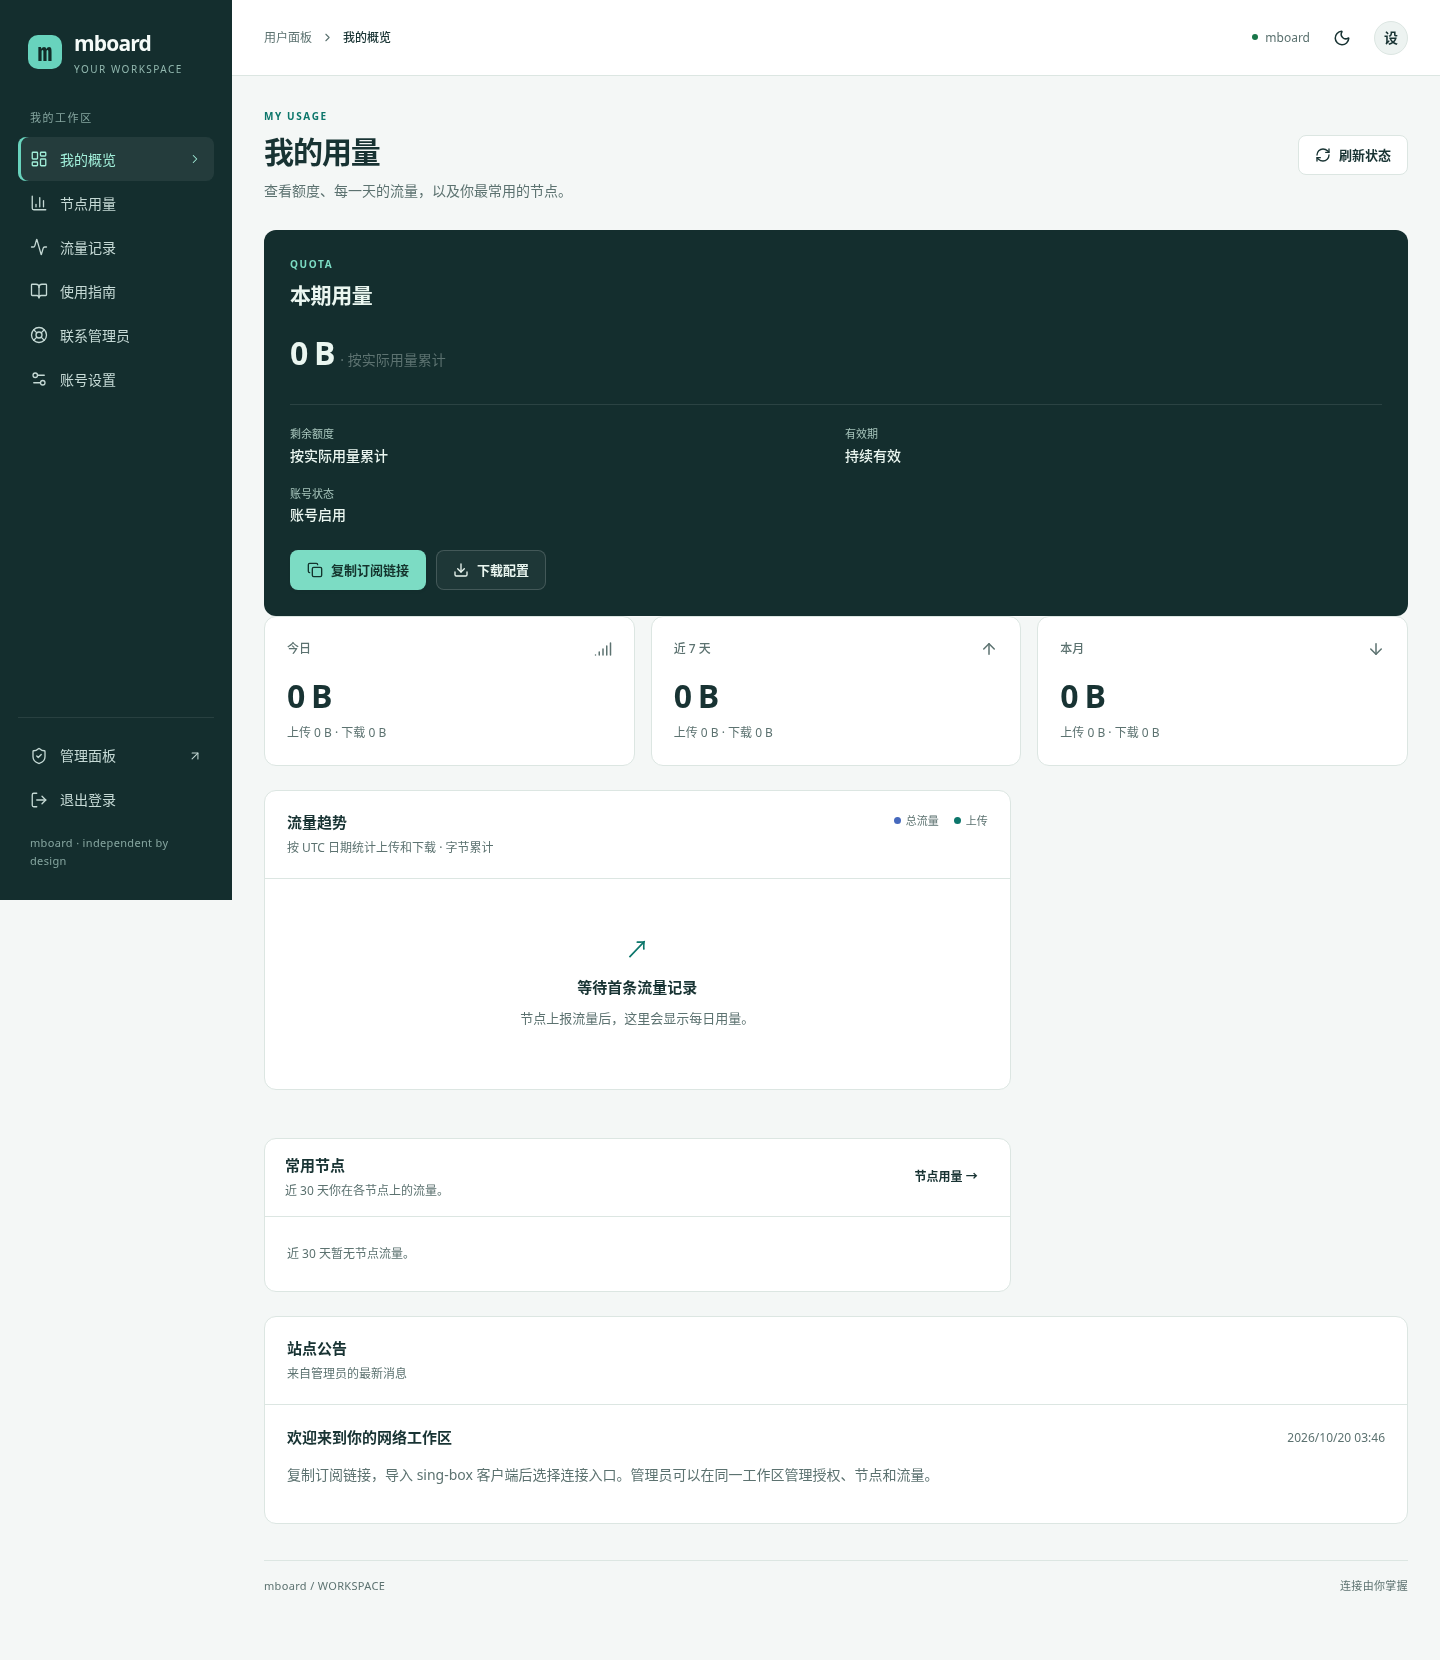
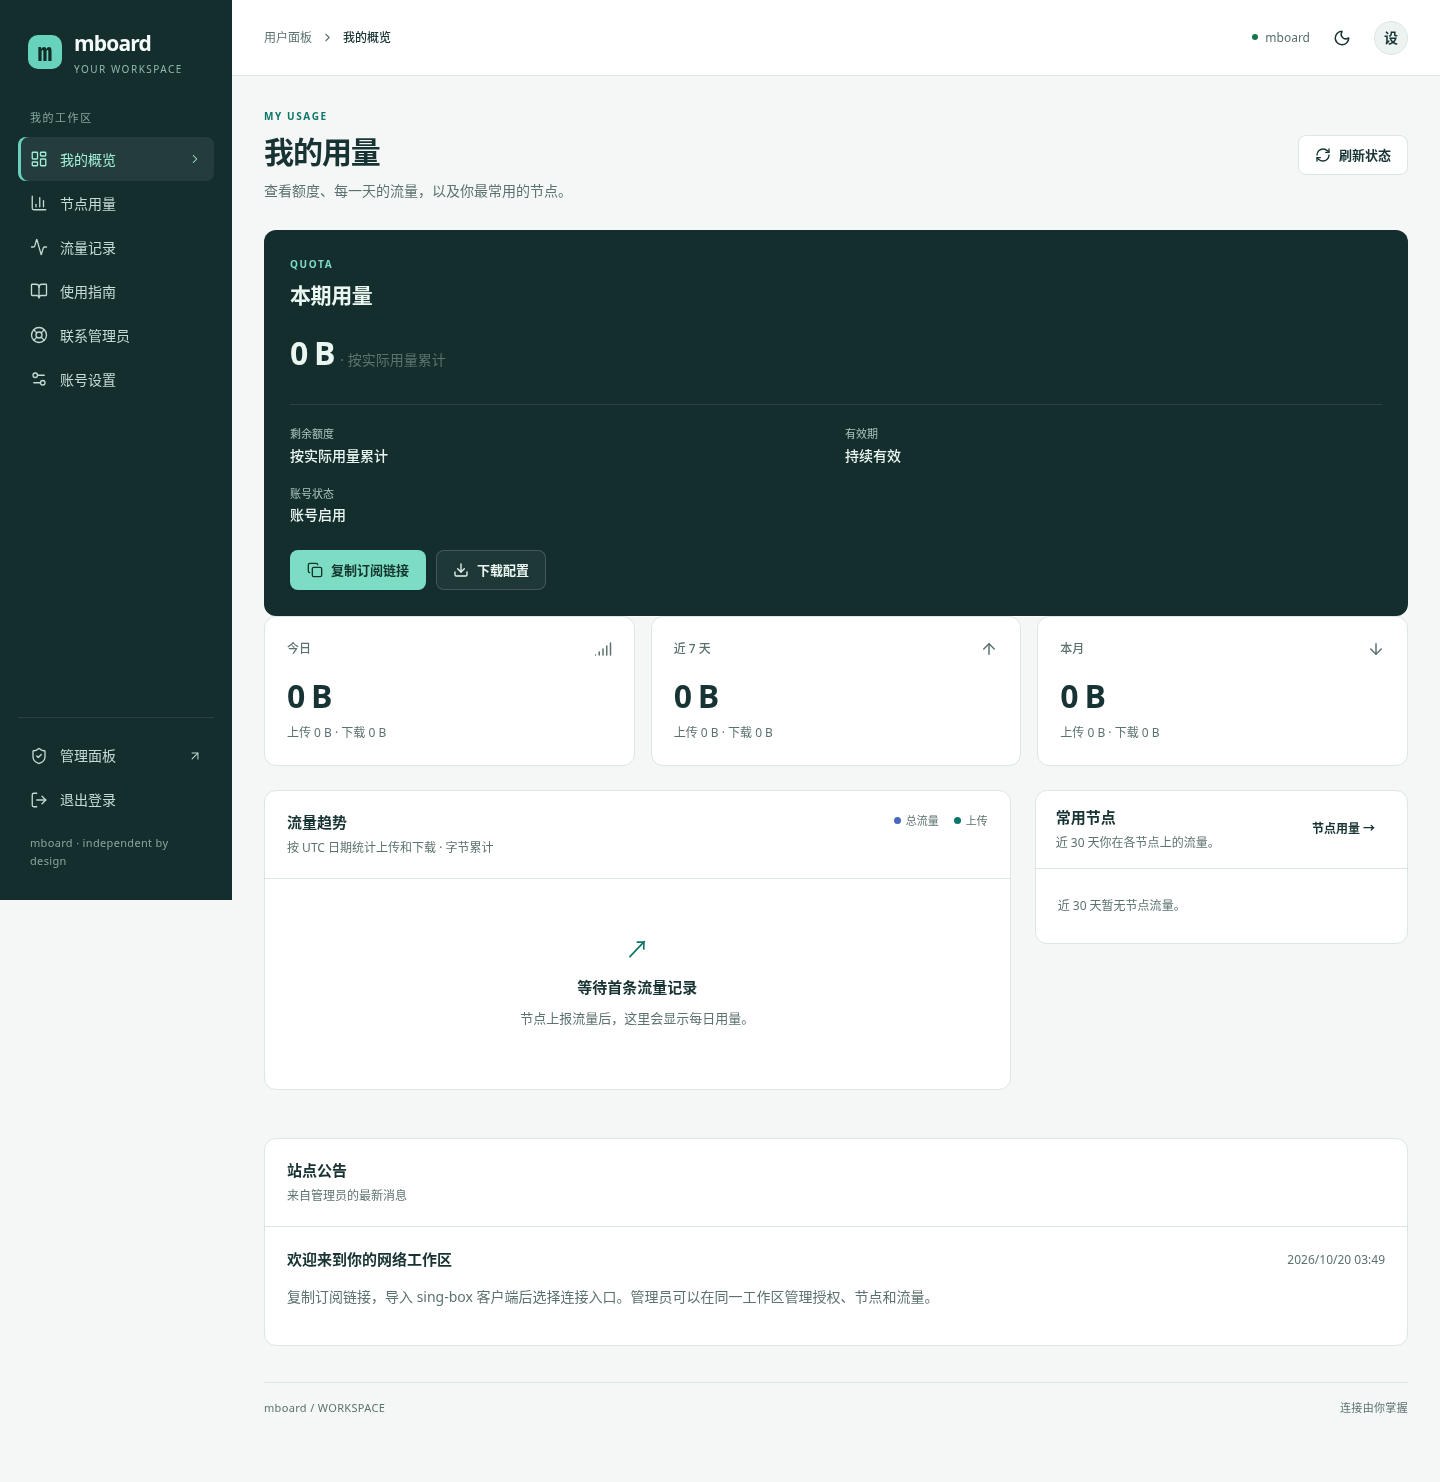
style: give the user pool balances a full-width compact grid

diff --git a/src/web/UserPages.tsx b/src/web/UserPages.tsx
@@ -253,6 +253,8 @@ function Home({
           <div className="dashboard-grid">
             <div className="section-stack">
               <TrafficChart data={data.traffic} />
+            </div>
+            <div className="section-stack">
               <Card>
                 <div className="card-header mb-custom-toolbar">
                   <div>
@@ -283,70 +285,59 @@ function Home({
                   </div>
                 ) : (
                   <div className="card-body">
-                    <p className="mb-custom-meta">
-                      近 30 天暂无节点流量。
-                    </p>
+                    <p className="mb-custom-meta">近 30 天暂无节点流量。</p>
                   </div>
                 )}
               </Card>
             </div>
-            <div className="section-stack">
-              {data.pools.length > 0 && (
-                <Card>
-                  <div className="card-header">
-                    <div>
-                      <h2>线路余量</h2>
-                      <p>你可用线路所属流量池的剩余比例。</p>
-                    </div>
-                  </div>
-                  <div className="card-body mb-custom-record-list">
-                    {data.pools.map((pool) => (
-                      <div className="mb-custom-record" key={pool.id}>
-                        <div className="mb-custom-record-heading">
-                          <strong>{pool.name}</strong>
-                          <Badge
-                            tone={
-                              pool.status === "exceeded"
-                                ? "danger"
-                                : pool.status === "warning"
-                                  ? "warning"
-                                  : "success"
-                            }
-                          >
-                            {pool.status === "exceeded"
-                              ? "已超额度"
-                              : pool.status === "warning"
-                                ? "接近上限"
-                                : "正常"}
-                          </Badge>
-                        </div>
-                        <div
-                          className="usage-track"
-                          role="progressbar"
-                          aria-label={`${pool.name} 剩余`}
-                          aria-valuenow={pool.remaining_percent}
-                          aria-valuemin={0}
-                          aria-valuemax={100}
-                        >
-                          <span
-                            className={`is-${pool.status === "ok" ? "ok" : pool.status}`}
-                            style={{
-                              width: `${Math.max(1, pool.remaining_percent)}%`,
-                            }}
-                          />
-                        </div>
-                        <span className="mb-custom-meta">
-                          剩余 {pool.remaining_percent}% ·{" "}
-                          {pool.cycle_end.slice(5)} 重置 · 还有 {pool.days_left}{" "}
-                          天
-                        </span>
-                      </div>
-                    ))}
-                  </div>
-                </Card>
-              )}
-            </div>
           </div>
+          {data.pools.length > 0 && (
+            <Card>
+              <div className="card-header">
+                <div>
+                  <h2>线路余量</h2>
+                  <p>你可用线路所属流量池的剩余比例。</p>
+                </div>
+              </div>
+              <div className="card-body mb-custom-pool-grid">
+                {data.pools.map((pool) => (
+                  <article className="mb-custom-pool-chip" key={pool.id}>
+                    <div className="mb-custom-pool-head">
+                      <strong>{pool.name}</strong>
+                      {pool.status !== "ok" && (
+                        <Badge
+                          tone={
+                            pool.status === "exceeded" ? "danger" : "warning"
+                          }
+                        >
+                          {pool.status === "exceeded" ? "已超额度" : "接近上限"}
+                        </Badge>
+                      )}
+                    </div>
+                    <div
+                      className="usage-track"
+                      role="progressbar"
+                      aria-label={`${pool.name} 剩余`}
+                      aria-valuenow={pool.remaining_percent}
+                      aria-valuemin={0}
+                      aria-valuemax={100}
+                    >
+                      <span
+                        className={`is-${pool.status === "ok" ? "ok" : pool.status}`}
+                        style={{
+                          width: `${Math.max(1, pool.remaining_percent)}%`,
+                        }}
+                      />
+                    </div>
+                    <span className="mb-custom-meta">
+                      剩余 {pool.remaining_percent}% ·{" "}
+                      {pool.cycle_end.slice(5)} 重置 · 还有 {pool.days_left} 天
+                    </span>
+                  </article>
+                ))}
+              </div>
+            </Card>
+          )}
           <Card>
             <div className="card-header">
               <div>

diff --git a/src/web/styles.css b/src/web/styles.css
@@ -1712,3 +1712,22 @@ body, .topbar, .card, .subscription-card, .toast {
   }
 }
 
+
+.mb-custom-pool-chip {
+  display: flex;
+  flex-direction: column;
+  gap: 6px;
+  padding: 14px;
+  border: 1px solid var(--border);
+  border-radius: 10px;
+}
+.mb-custom-pool-chip .mb-custom-pool-head {
+  align-items: center;
+}
+.mb-custom-pool-chip strong {
+  font-size: 14px;
+}
+.mb-custom-pool-chip .usage-track {
+  margin: 2px 0;
+}
+
